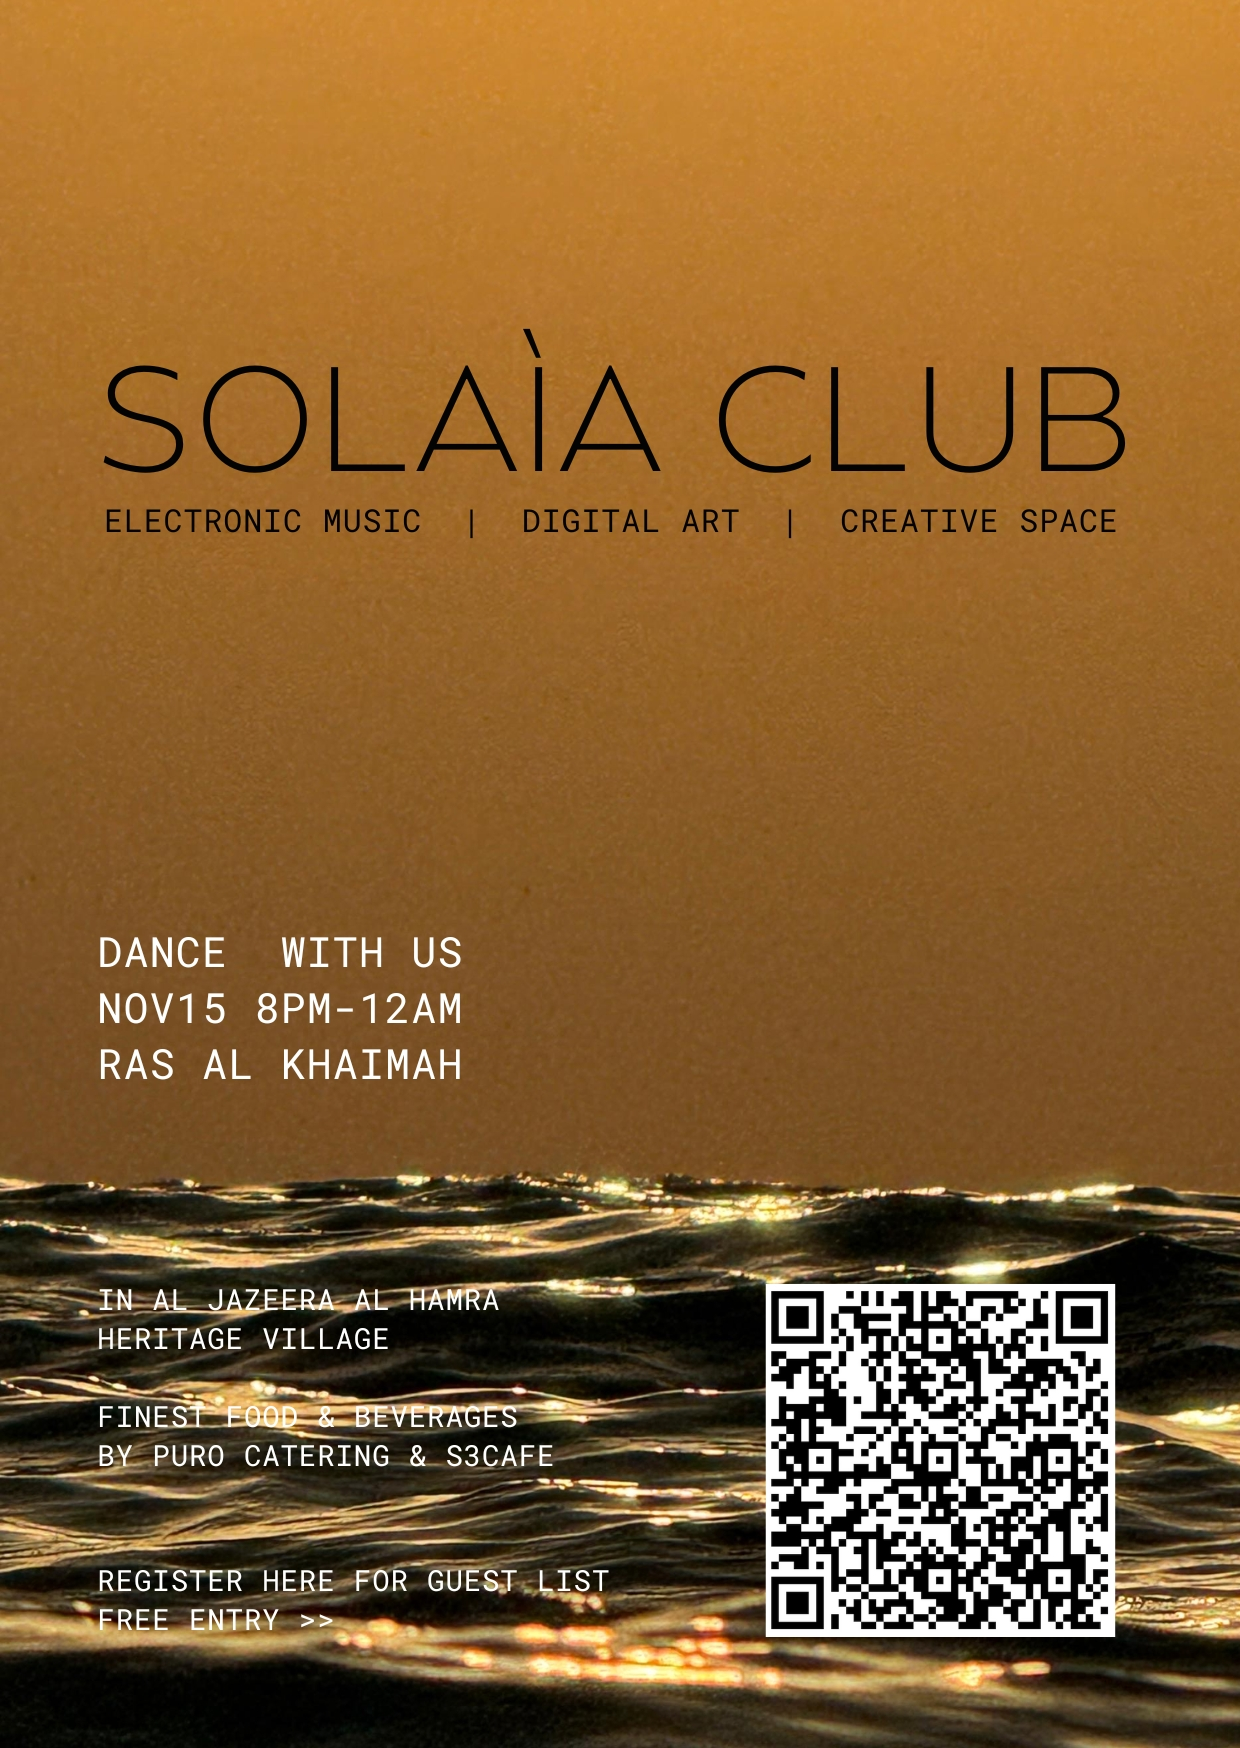
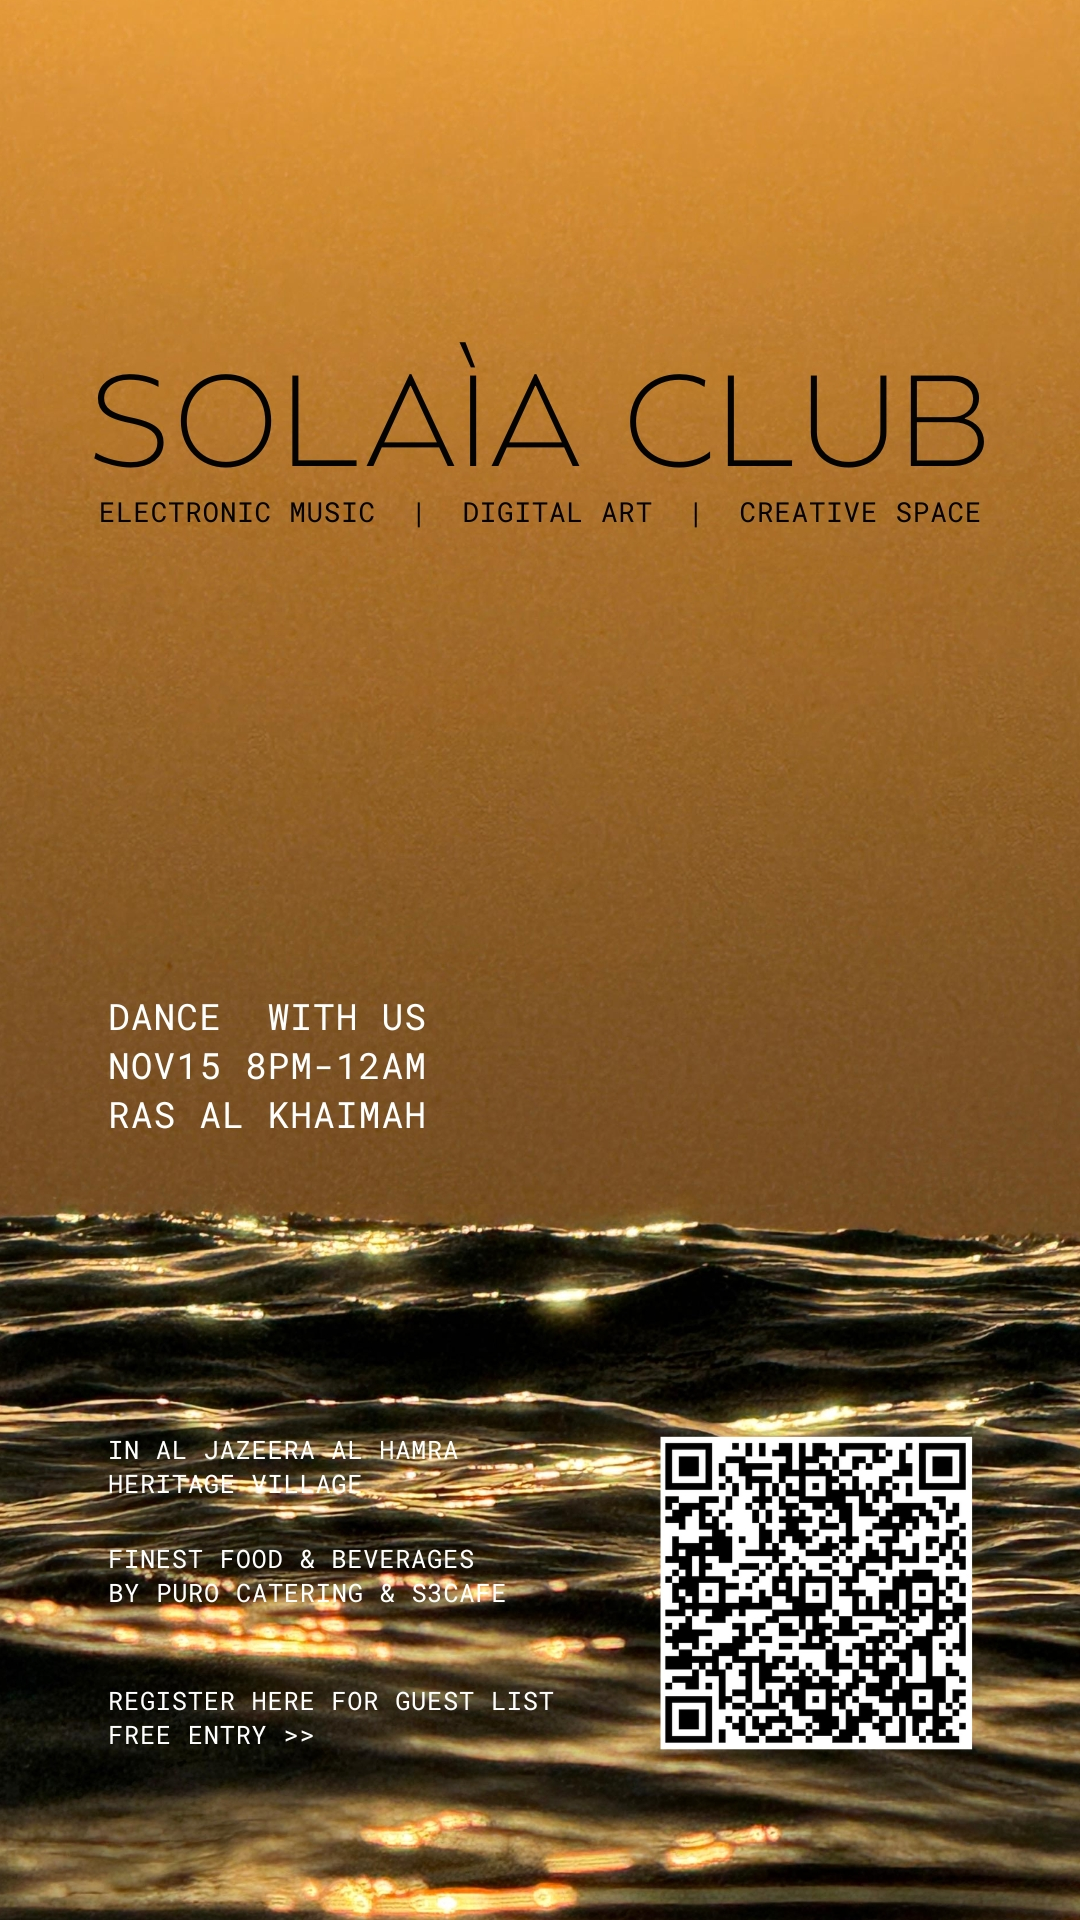
new image and arrow added

diff --git a/index.html b/index.html
@@ -15,20 +15,18 @@
       --icon-color: #362114;
     }
 
-    /* Scrolls naturally with the page */
     .hero{
       position: relative;
-      width: 100vw;    /* fill screen width */
+      width: 100vw;
     }
 
-    /* Full image visible, no side bars, maintains aspect ratio */
     .hero img{
       display: block;
-      width: 100vw;    /* no white space on the sides */
-      height: auto;    /* keep aspect ratio so bottom isn't cropped */
+      width: 100vw;
+      height: auto;
     }
 
-    /* Icons stay fixed while you scroll the image */
+    /* Fixed icons (top left) */
     .icons{
       position: fixed;
       top: calc(max(var(--gap), env(safe-area-inset-top)));
@@ -55,7 +53,31 @@
       stroke-linejoin: round;
       transition: opacity .2s ease;
     }
+
     .icons a:hover svg{ opacity: .7; }
+
+    /* Scroll indicator arrow */
+    .scroll-arrow{
+      position: fixed;
+      bottom: 24px;
+      left: 50%;
+      transform: translateX(-50%);
+      width: 28px;
+      height: 28px;
+      stroke: var(--icon-color);
+      fill: none;
+      stroke-width: 1.1;
+      stroke-linecap: round;
+      stroke-linejoin: round;
+      opacity: 1;
+      transition: opacity 0.35s ease;
+      z-index: 9;
+      pointer-events: none;
+    }
+
+    .scroll-arrow.hidden {
+      opacity: 0;
+    }
 
     @media (max-width: 420px){
       :root{ --gap: 24px; --icon-size: 28px; }
@@ -63,6 +85,7 @@
   </style>
 </head>
 <body>
+  <!-- Fixed icons -->
   <div class="icons" aria-label="Links">
     <a href="https://instagram.com/solaiaclub" target="_blank" rel="noopener" aria-label="Instagram">
       <svg viewBox="0 0 24 24" aria-hidden="true">
@@ -79,9 +102,38 @@
     </a>
   </div>
 
-  <!-- Image fills width, full height remains viewable by scrolling -->
+  <!-- Minimalist scroll indicator -->
+  <svg class="scroll-arrow" viewBox="0 0 24 24" aria-hidden="true">
+    <polyline points="6 9 12 15 18 9"/>
+  </svg>
+
+  <!-- Image fills width -->
   <section class="hero">
     <img src="assets/website_v1.jpg" alt="Background image" loading="eager" />
   </section>
+
+  <script>
+    const arrow = document.querySelector('.scroll-arrow');
+
+    function toggleArrow() {
+      const doc = document.documentElement;
+      const scrollY = window.scrollY || doc.scrollTop;
+      const viewportH = window.innerHeight;
+      const fullH = doc.scrollHeight;
+
+      // true if user is basically at bottom (2px tolerance)
+      const atBottom = Math.ceil(scrollY + viewportH) >= fullH - 2;
+
+      if (atBottom) {
+        arrow.classList.add('hidden');
+      } else {
+        arrow.classList.remove('hidden');
+      }
+    }
+
+    // run on load and on scroll
+    window.addEventListener('scroll', toggleArrow);
+    window.addEventListener('load', toggleArrow);
+  </script>
 </body>
 </html>
